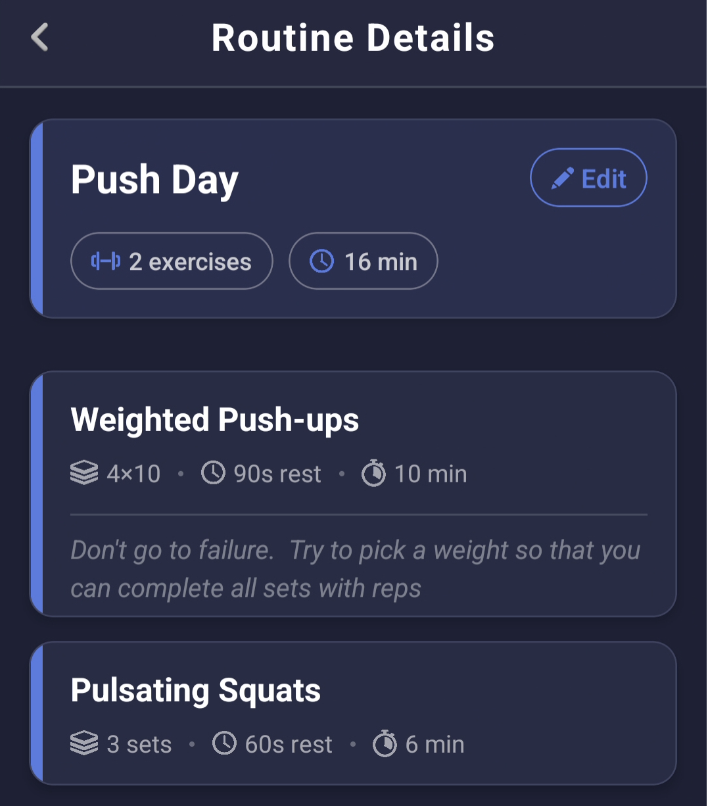
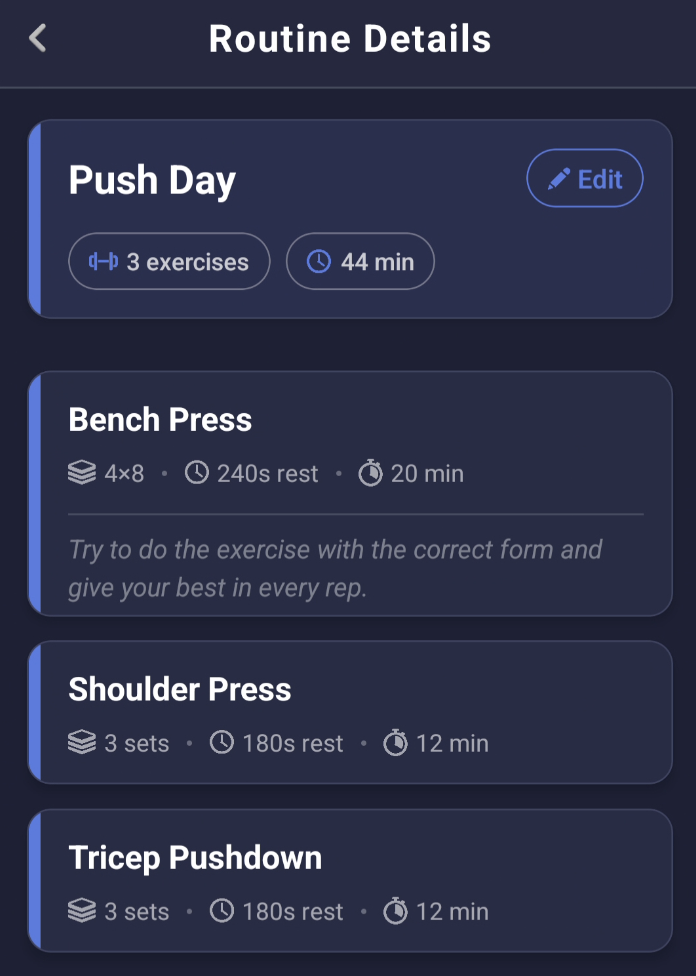
-

diff --git a/src/screens/RoutinesFaqScreen.tsx b/src/screens/RoutinesFaqScreen.tsx
@@ -88,7 +88,7 @@ const RoutinesFaqScreen = () => {
 
                 <ScreenshotImage
                     source={faq_routine_details}
-                    aspectRatio={707 / 806}
+                    aspectRatio={696 / 976}
                     caption={<>{'Example Routine — '}<Text style={{ fontWeight: '700', color: '#ffffff' }}>Push Day</Text>{': Bench Press, Shoulder Press, Tricep Pushdowns'}</>}
                 />
 